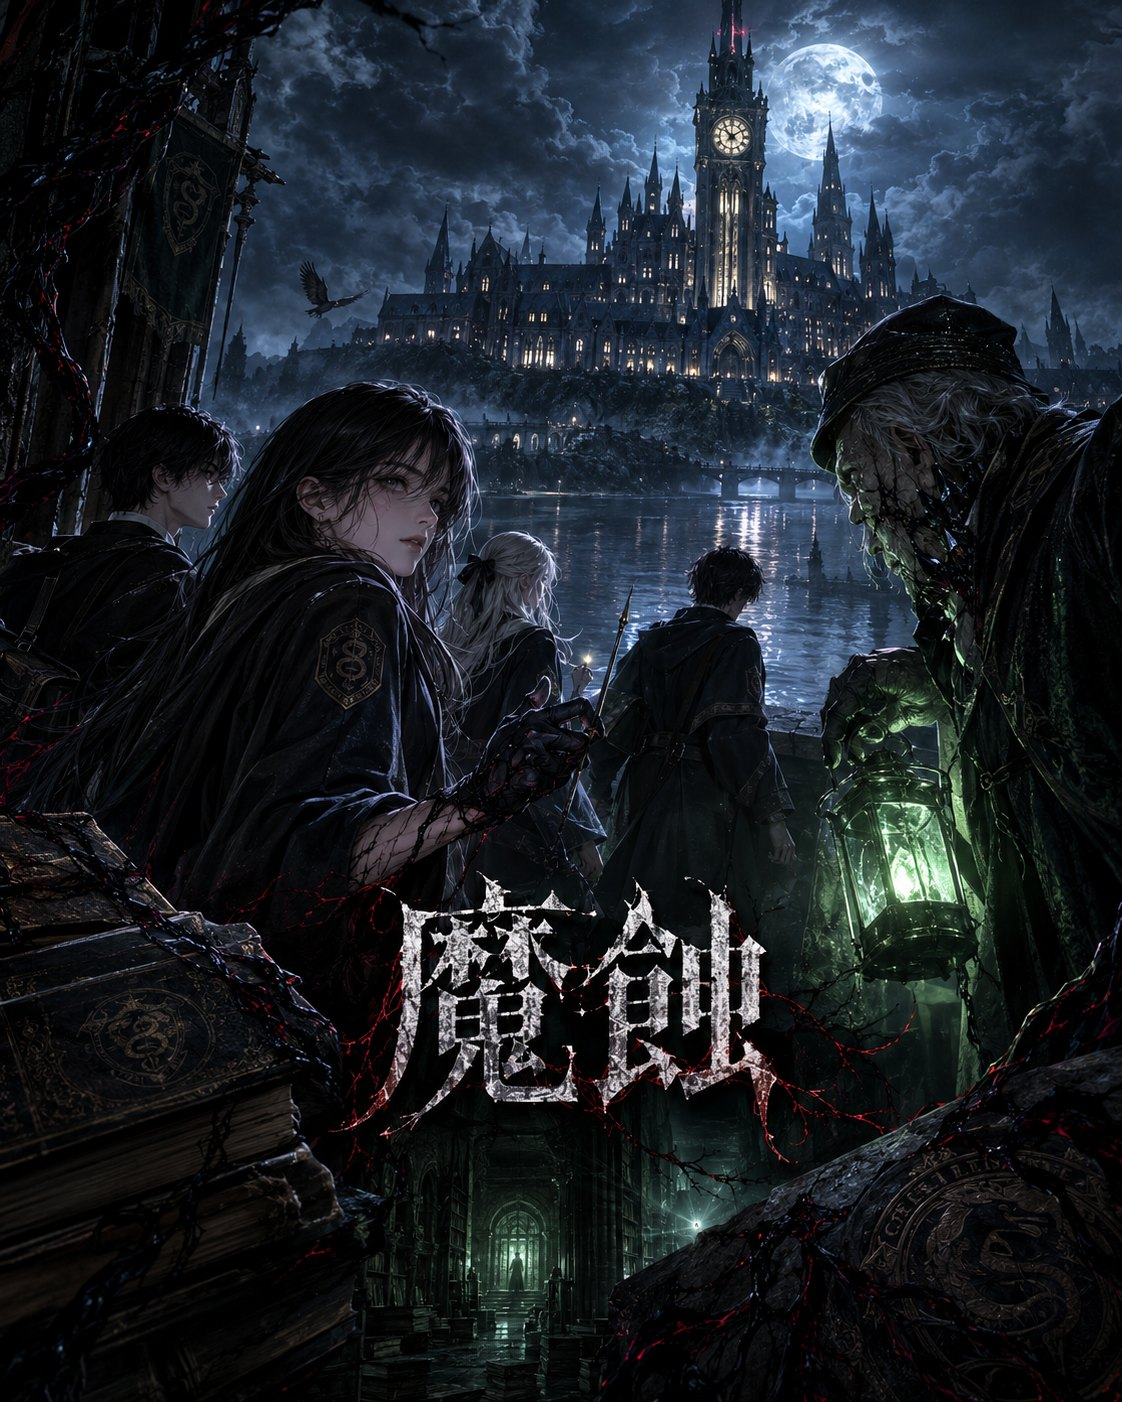
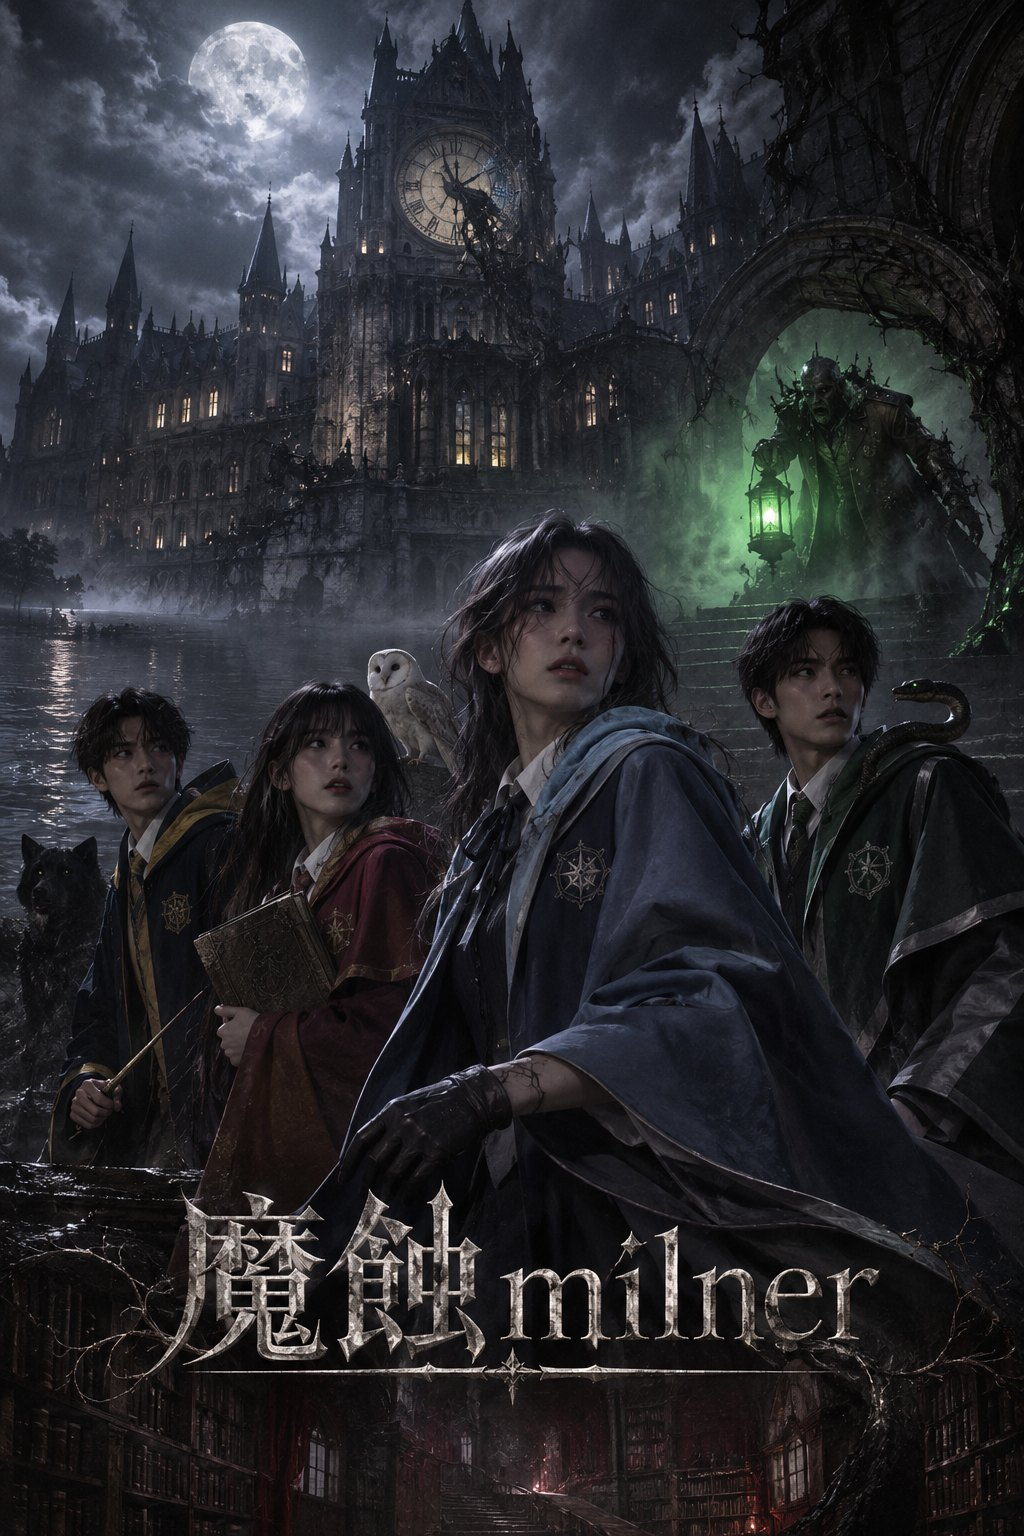
管理頁：即時動態改成只顯示現在正在玩遊戲的人數（總數＋每款幾人）；《魔蝕milner》換新封面（大圖、卡片縮圖、分享預覽圖 v=3）
- 即時動態：最近 15 分鐘內有遊戲存檔的玩家（不含管理員），每 20 秒自動更新；每個人的進度改到「卡關分析」看
- 測試 test-admin-cache.js：進度改從卡關分析檢查，新增即時動態人數的檢查

Claude-Session: https://claude.ai/code/session_01JMQLQgfk6DvfTTBfnyAZW6

diff --git a/admin.js b/admin.js
@@ -437,21 +437,22 @@ export function mountAdmin(ctx) {
         <p class="prog">${esc(b.message || '')}</p>${b.station ? `<p>位置：${esc(b.station)}</p>` : ''}</div></div>`).join('') : '<p class="adm-empty">目前沒有待處理的回報。</p>'}</div>`;
   }
 
-  // ---------- 2. 即時動態 ----------
+  // ---------- 2. 即時動態：現在有幾個人在玩遊戲 ----------
+  // 「在玩」＝最近 15 分鐘內有遊戲存檔（遊戲裡一有進度，最多 10 秒就會存到雲端）。不含管理員自己。
   function live() {
-    const now = Date.now(), ps = Object.values(P).filter(p => p.last).sort((a, b) => String(b.last).localeCompare(String(a.last)));
-    const on = ps.filter(p => now - new Date(p.last) < 15 * 60e3), day1 = ps.filter(p => !on.includes(p) && now - new Date(p.last) < 864e5);
-    const row = (p, live) => {
-      const xs = Object.values(p.games).filter(x => x.last).sort((a, b) => String(b.last).localeCompare(String(a.last)));
-      const cur = xs[0] && now - new Date(xs[0].last) < (live ? 15 * 60e3 : 864e5) ? xs[0] : null;
-      const where = cur ? progLine(cur.slug, cur) + `<br><small>存檔 ${ago(cur.last)}</small>` : live ? '在大廳（最近 15 分鐘沒有遊戲存檔）' : '沒有玩遊戲';
-      return `<div class="adm-row">${avatarHTML(p, 40)}<div><b><span class="adm-dot ${live ? '' : 'idle'}"></span>${esc(p.name)}</b>${p.admin ? '<span class="adm-tag">你</span>' : ''}
-        <span class="adm-tag">${ago(p.last)}</span>${p.skew ? `<span class="adm-tag" title="這個玩家的存檔時間在未來，最後上線改用登入紀錄判斷">⏰ 裝置時間快了約 ${Math.round(p.skew)} 小時</span>` : ''}<p>${where}</p></div></div>`;
-    };
+    const now = Date.now(), cnt = {};
+    for (const p of players()) {
+      const xs = Object.values(p.games).filter(x => x.last && now - new Date(x.last) < 15 * 60e3);
+      if (!xs.length) continue;
+      const cur = xs.sort((a, b) => String(b.last).localeCompare(String(a.last)))[0];
+      cnt[cur.slug] = (cnt[cur.slug] || 0) + 1;
+    }
+    const total = Object.values(cnt).reduce((a, b) => a + b, 0);
+    const rows = Object.entries(cnt).sort((a, b) => b[1] - a[1]).map(([slug, n]) => `<tr><td>${esc(gameBySlug[slug]?.title || (slug === 'mist' ? '迷霧' : slug))}</td><td class="n">${n} 人</td></tr>`).join('');
     body.innerHTML = `
-      <div class="adm-card"><h3>現在在線<small>最近 15 分鐘有動作・每 20 秒自動更新</small></h3>${on.map(p => row(p, true)).join('') || '<p class="adm-empty">現在沒有人在線。</p>'}</div>
-      <div class="adm-card"><h3>今天來過<small>24 小時內</small></h3>${day1.map(p => row(p, false)).join('') || '<p class="adm-empty">今天還沒有其他人來過。</p>'}</div>
-      <p class="adm-note">「在線」是用登入狀態和遊戲存檔推算的：遊戲裡一有進度，最多 10 秒就會存到雲端；打開遊戲但完全沒動作的人看不出來。</p>`;
+      <div class="adm-kpis"><div class="adm-kpi live"><b>${total}</b><span>現在正在玩遊戲的人</span></div></div>
+      ${total ? `<div class="adm-card"><h3>在玩哪一款<small>每 20 秒自動更新</small></h3><div class="adm-scroll"><table class="adm-tbl"><tr><th>遊戲</th><th>人數</th></tr>${rows}</table></div></div>` : '<p class="adm-empty">現在沒有人在玩遊戲。</p>'}
+      <p class="adm-note">算法：最近 15 分鐘內有遊戲存檔的玩家（不含你自己）。遊戲裡一有進度，最多 10 秒就會存到雲端；打開遊戲但完全沒動作的人算不到。每個人的進度在「卡關分析」。</p>`;
   }
 
   // ---------- 3. 卡關分析 ----------

diff --git a/tools/test-admin-cache.js b/tools/test-admin-cache.js
@@ -30,6 +30,8 @@ const { chromium } = require('playwright'); const { spawn } = require('child_pro
     const c1 = ctx(); const a1 = mountAdmin(c1); await sleep(600);
     c1.root.querySelector('[data-tab="live"]').click(); await sleep(200);
     const live = c1.root.innerText;
+    const sel = async (g) => { c1.root.querySelector('[data-tab="stuck"]').click(); await sleep(150); const e = c1.root.querySelector('#adm-stuck-g'); e.value = g; e.dispatchEvent(new Event('change')); await sleep(100); return c1.root.innerText; };
+    const stuckH = await sel('heart'), stuckF = await sel('fanmian');
     a1.stop();
     // 從大廳回到管理頁（同一頁）
     await a1.refresh(); await sleep(400);
@@ -45,12 +47,13 @@ const { chromium } = require('playwright'); const { spawn } = require('child_pro
     const tabErr = [];
     for (const t of ['overview', 'live', 'stuck', 'games']) { try { c2.root.querySelector(`[data-tab="${t}"]`).click(); await sleep(150); } catch (e) { tabErr.push(t + ': ' + e.message); } }
     const stuck = (c2.root.querySelector('[data-tab="stuck"]').click(), await sleep(150), c2.root.innerText);
-    return { live, ov, n1, n2, tabErr, stuck };
+    return { live, stuckH, stuckF, ov, n1, n2, tabErr, stuck };
   });
   const ok = (c, m) => { console.log((c ? '  ✓ ' : '  ✗ ') + m); if (!c) fail++; };
-  ok(/別讓他知道/.test(r.live) && /第二章/.test(r.live) && /2 人連線：小明、阿嬤/.test(r.live), '別讓他知道的進度看得到');
-  ok(/反面/.test(r.live) && /一樓後面・暗房/.test(r.live) && /相機 6 \/ 7/.test(r.live) && /時間池剩 4 小時/.test(r.live), '反面的進度看得到（章節、相機、時間池）');
-  ok(!/按了開始，還沒有存檔/.test(r.live), '不會再顯示「按了開始，還沒有存檔」');
+  ok(/2\s*現在正在玩遊戲的人/.test(r.live) && /別讓他知道\s*1 人/.test(r.live) && /反面\s*1 人/.test(r.live), '即時動態：正在玩的人數（總數＋每款）');
+  ok(/別讓他知道/.test(r.stuckH) && /第二章/.test(r.stuckH) && /2 人連線：小明、阿嬤/.test(r.stuckH), '別讓他知道的進度看得到');
+  ok(/反面/.test(r.stuckF) && /一樓後面・暗房/.test(r.stuckF) && /相機 6 \/ 7/.test(r.stuckF) && /時間池剩 4 小時/.test(r.stuckF), '反面的進度看得到（章節、相機、時間池）');
+  ok(!/按了開始，還沒有存檔/.test(r.stuckH + r.stuckF), '不會再顯示「按了開始，還沒有存檔」');
   ok(r.n1.join(',') === 'full,since,full', '第一次整包、回到管理頁只抓變化、按重新整理才整包：' + r.n1.join(','));
   ok(r.n2.join(',') === 'since', '重新打開網頁：用記住的資料，只抓變化：' + r.n2.join(','));
   ok(/註冊玩家/.test(r.ov), '用記住的資料畫得出總覽');

diff --git a/g/milner/index.html b/g/milner/index.html
@@ -10,10 +10,10 @@
 <meta property="og:site_name" content="夜語escape room">
 <meta property="og:title" content="魔蝕milner｜夜語escape room・線上密室逃脫">
 <meta property="og:description" content="開學第一晚，四個新生偷溜進米爾納學校的禁區。走廊盡頭，有人提著一盞綠色的燈在巡夜——午夜鐘聲敲完以前，你們得活著回去。第一人稱恐怖 RPG 解謎，1～4 人連線，11/11（三）20:00 開放。">
-<meta property="og:image" content="https://lobby.noron.workers.dev/covers/og/milner.jpg?v=2">
+<meta property="og:image" content="https://lobby.noron.workers.dev/covers/og/milner.jpg?v=3">
 <meta property="og:image:width" content="1200">
 <meta property="og:image:height" content="630">
-<meta name="twitter:image" content="https://lobby.noron.workers.dev/covers/og/milner.jpg?v=2">
+<meta name="twitter:image" content="https://lobby.noron.workers.dev/covers/og/milner.jpg?v=3">
 <meta property="og:url" content="https://lobby.noron.workers.dev/g/milner/">
 <meta name="twitter:card" content="summary_large_image">
 <meta name="robots" content="noindex">
